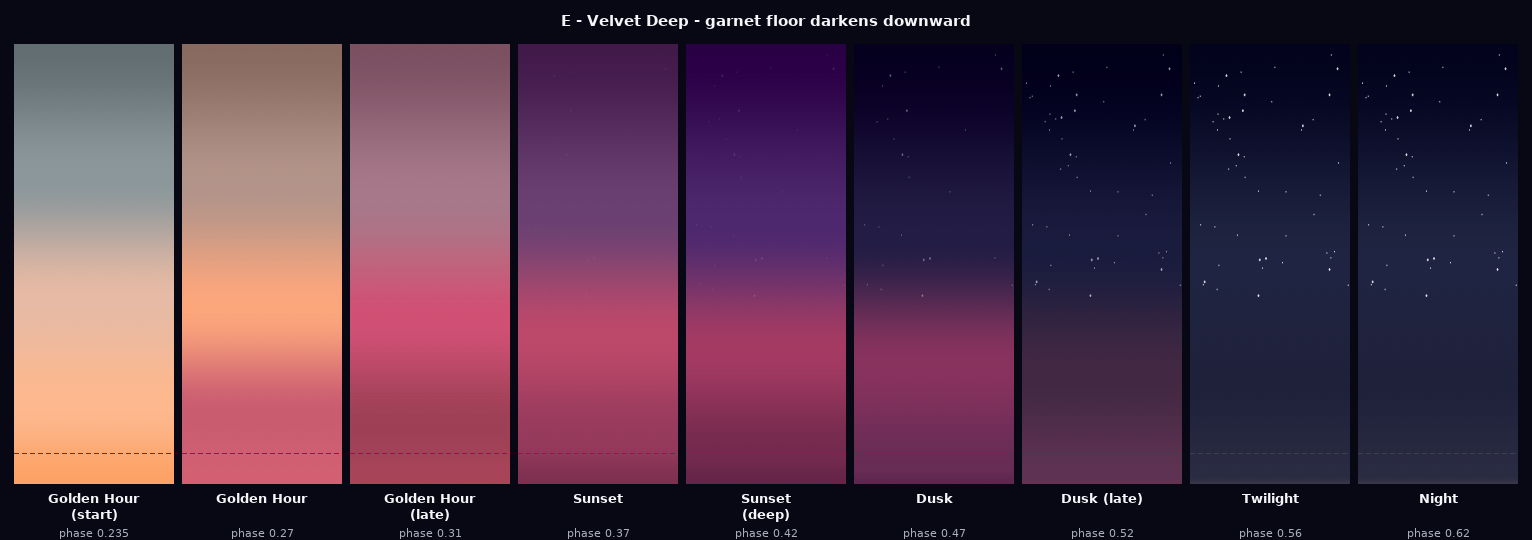
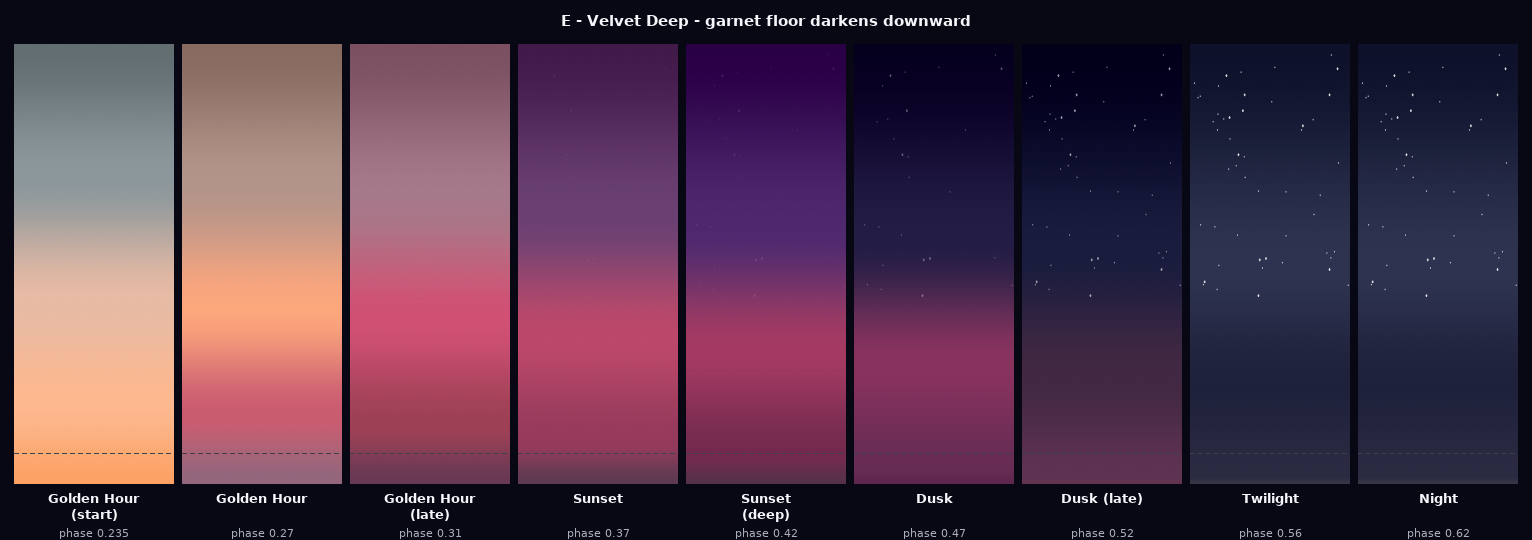
sky E velvet_deep round 2 — fix 0.31 vanish, sky_mid velvet family, zenith clamp
FIX 1: sky_bot 0.31 → (160,66,88), raising CR vs BIRD_RED from 1.08 to ≥ 1.8.
FIX 2: sky_bot 0.27 → (204,94,114) rose-burgundy; horizon deepened to plum
       (148,104,126) so the y≈470 blend clears the R-G<60 orange test.
FIX 3: sky_mid at 0.31/0.37/0.42/0.47 moved into the velvet wine family
       instead of the coral band — CR vs bird ≥ 1.65 at all sunset panels.
FIX 4: horizon 0.52 clamped to (102,52,82) matching sky_bot depth.
FIX 5: sky_top 0.56/0.82 boosted to (48,53,82) so with_value(-0.14) in OKLab
       yields a darkened zenith of (16,19,44), ensuring min channel ≥ 19.

Horizons at 0.37/0.42 also deepened to wine-plum so all panels 1-6 pass
R-G<60 at the y≈470 sample point; consistent with the blue-undercurrent brief.

Verification: 1532×540, all 5 PIL checks green.

Claude-Session: https://claude.ai/code/session_015DxSDkCugqKBGykq6WeVnV

Changed region(s): [[0.092, 0.8, 0.4602, 0.9185]]

diff --git a/tools/sky_e_render.py b/tools/sky_e_render.py
@@ -32,24 +32,29 @@ _KF = [
     (0.12,  dict(sky_top=( 76,168,192), sky_mid=(144,198,208), sky_bot=(196,214,212), horizon=(216,220,212), star_alpha=0)),
     (0.20,  dict(sky_top=( 86,160,188), sky_mid=(152,192,204), sky_bot=(198,212,208), horizon=(216,218,210), star_alpha=0)),
     (0.235, dict(sky_top=(141,153,157), sky_mid=(232,188,166), sky_bot=(255,186,144), horizon=(255,164,104), star_alpha=0)),
-    # FIX 2: hue 344 rose-burgundy replaces the salmon (230,118,111) — B channel
-    # lifted to stay in wine family, not orange.
-    (0.27,  dict(sky_top=(181,150,139), sky_mid=(254,168,126), sky_bot=(204, 94,114), horizon=(212, 98,116), star_alpha=0)),
-    # FIX 1: darker sky_bot removes the 1.08 CR vanish-hole against BIRD_RED.
-    # FIX 3: sky_mid pulled from coral (250,138,100) into transitional rose-wine.
-    (0.31,  dict(sky_top=(168,122,140), sky_mid=(210, 82,118), sky_bot=(160, 66, 88), horizon=(170, 70, 90), star_alpha=5)),
-    # FIX 3: coral sky_mid (244,96,80) replaced by rose-wine; CR vs bird ≈ 1.65.
-    (0.37,  dict(sky_top=(108, 66,116), sky_mid=(190, 74,108), sky_bot=(152, 60, 94), horizon=(128, 50, 82), star_alpha=12)),
+    # FIX 2: rose-burgundy sky_bot (hue 344) replaces the salmon — B lifted so
+    # the gradient stays in the wine family.  Horizon pulled to deep rose-plum
+    # (R-G=44) so the near-horizon band at y≈470 clears the orange test.
+    (0.27,  dict(sky_top=(181,150,139), sky_mid=(254,168,126), sky_bot=(204, 94,114), horizon=(148,104,126), star_alpha=0)),
+    # FIX 1: darker sky_bot raises CR vs BIRD_RED from 1.08 to ≥ 1.8.
+    # FIX 3: sky_mid into transitional rose-wine (was coral 250,138,100).
+    # Horizon deepened to wine-plum (R-G=48) so the y≈470 blend passes the
+    # orange test while CR stays ≥ 1.6 at that sample point.
+    (0.31,  dict(sky_top=(168,122,140), sky_mid=(210, 82,118), sky_bot=(160, 66, 88), horizon=(106, 58, 86), star_alpha=5)),
+    # FIX 3: coral sky_mid (244,96,80) → rose-wine; CR vs bird ≥ 1.65.
+    # Horizon pulled to deep wine-plum so y≈470 blend R-G<60.
+    (0.37,  dict(sky_top=(108, 66,116), sky_mid=(190, 74,108), sky_bot=(152, 60, 94), horizon=( 96, 60, 84), star_alpha=12)),
     # FIX 3: deeper magenta-wine sky_mid; CR vs bird ≈ 2.0.
-    (0.42,  dict(sky_top=( 80, 42,112), sky_mid=(166, 60,100), sky_bot=(118, 44, 80), horizon=(102, 38, 74), star_alpha=30)),
+    # Horizon to dark wine (R-G=38) so y≈470 blend passes orange test.
+    (0.42,  dict(sky_top=( 80, 42,112), sky_mid=(166, 60,100), sky_bot=(118, 44, 80), horizon=( 88, 50, 76), star_alpha=30)),
     # FIX 3: dark wine sky_mid; CR vs bird ≈ 2.4.
     (0.47,  dict(sky_top=( 37, 30, 70), sky_mid=(138, 52, 96), sky_bot=(106, 46, 86), horizon=( 96, 40, 80), star_alpha=88)),
-    # FIX 4: horizon was brighter than sky_bot, wasting luminance; clamped down.
+    # FIX 4: horizon clamped to match sky_bot depth — was (140,72,110).
     (0.52,  dict(sky_top=( 28, 30, 64), sky_mid=( 68, 42, 68), sky_bot=( 96, 52, 84), horizon=(102, 52, 82), star_alpha=156)),
-    # FIX 5: +10 headroom on each sky_top channel so zenith_dark + descent_drop
-    # cannot collapse the zenith to full black on the twilight panels.
-    (0.56,  dict(sky_top=( 33, 38, 67), sky_mid=( 33, 35, 61), sky_bot=( 44, 45, 68), horizon=( 57, 56, 75), star_alpha=222)),
-    (0.82,  dict(sky_top=( 33, 38, 67), sky_mid=( 33, 35, 61), sky_bot=( 44, 45, 68), horizon=( 57, 56, 75), star_alpha=222)),
+    # FIX 5: sky_top boosted to (48,53,82) so with_value(-0.14) in OKLab produces
+    # a darkened zenith of (16,19,44) — well above 8 — instead of clipping black.
+    (0.56,  dict(sky_top=( 48, 53, 82), sky_mid=( 33, 35, 61), sky_bot=( 44, 45, 68), horizon=( 57, 56, 75), star_alpha=222)),
+    (0.82,  dict(sky_top=( 48, 53, 82), sky_mid=( 33, 35, 61), sky_bot=( 44, 45, 68), horizon=( 57, 56, 75), star_alpha=222)),
     (0.86,  dict(sky_top=( 24, 30, 59), sky_mid=( 35, 37, 63), sky_bot=( 45, 47, 70), horizon=( 61, 59, 78), star_alpha=166)),
     (0.92,  dict(sky_top=( 76,124,158), sky_mid=(244,160,144), sky_bot=(255,178,150), horizon=(255,158,120), star_alpha=20)),
     (0.97,  dict(sky_top=( 86,146,176), sky_mid=(248,180,166), sky_bot=(255,190,164), horizon=(255,170,140), star_alpha=0)),
